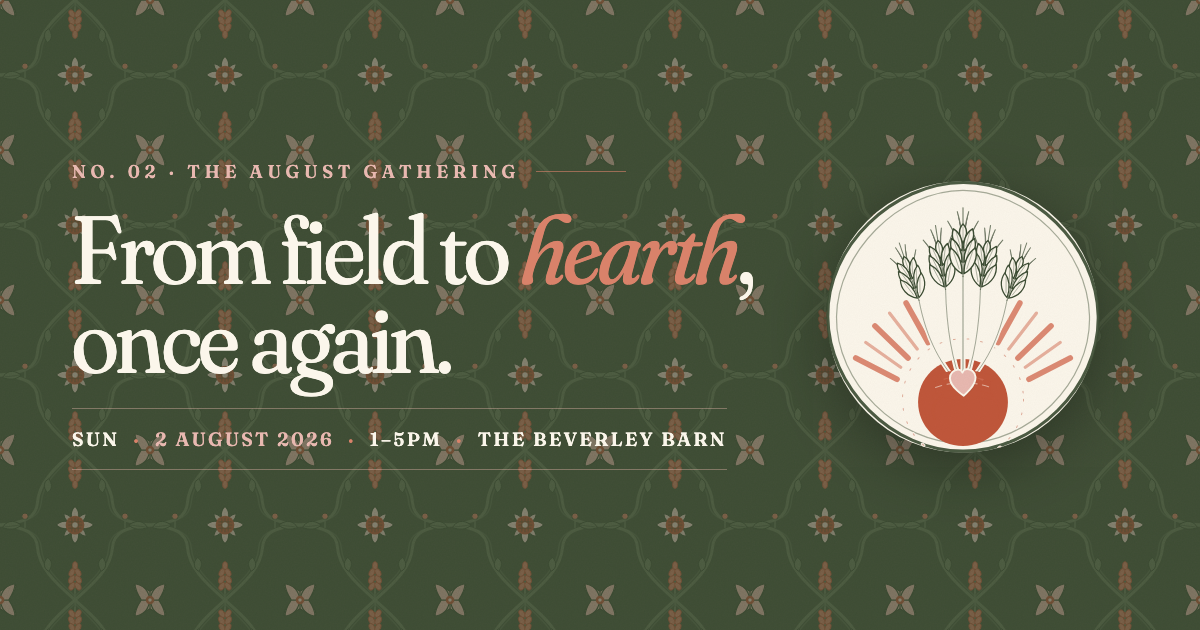
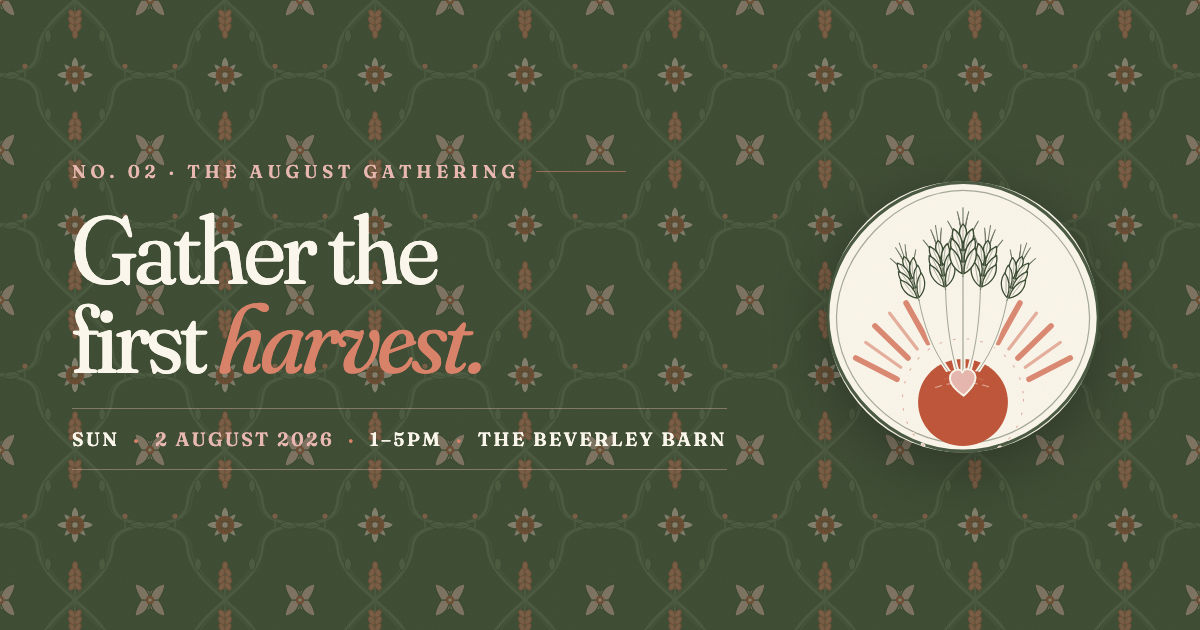
Hero headline: 'Gather the first harvest' (+ matching OG card)

Changed region(s): [[0.0617, 0.3317, 0.6475, 0.4825], [0.0617, 0.4825, 0.4008, 0.6333]]

diff --git a/index.html b/index.html
@@ -362,7 +362,7 @@
       <div>
         <div class="edition-marker">No. 02 · The August Gathering</div>
         <div class="hero-kicker">— a note from the field, as the first harvest comes in</div>
-        <h1 class="hero-title">From field to <span class="ital">hearth</span>,<br>once again.</h1>
+        <h1 class="hero-title">Gather the<br>first <span class="ital">harvest.</span></h1>
         <p class="hero-tagline">A monthly gathering of local growers, makers &amp; healers — back at the barn for our second Sunday, as the fields turn gold and the first loaves come in.</p>
         <div class="datestamp">
           <span>Sun</span><span class="dot">·</span><span class="hot">2 August 2026</span><span class="dot">·</span><span>1–5pm</span><span class="dot">·</span><span>The Beverley Barn</span>

diff --git a/og-source.html b/og-source.html
@@ -25,7 +25,7 @@
 <div id="og">
   <div class="col left">
     <div class="edition">No. 02 · The August Gathering</div>
-    <h1>From field to <span class="ital">hearth</span>,<br>once again.</h1>
+    <h1>Gather the<br>first <span class="ital">harvest.</span></h1>
     <div class="stamp"><span>Sun</span><span class="dot">·</span><span class="hot">2 August 2026</span><span class="dot">·</span><span>1–5pm</span><span class="dot">·</span><span>The Beverley Barn</span></div>
   </div>
   <div class="col right"><img src="art/wheat-sheaf-hero-roundel.svg" alt=""></div>